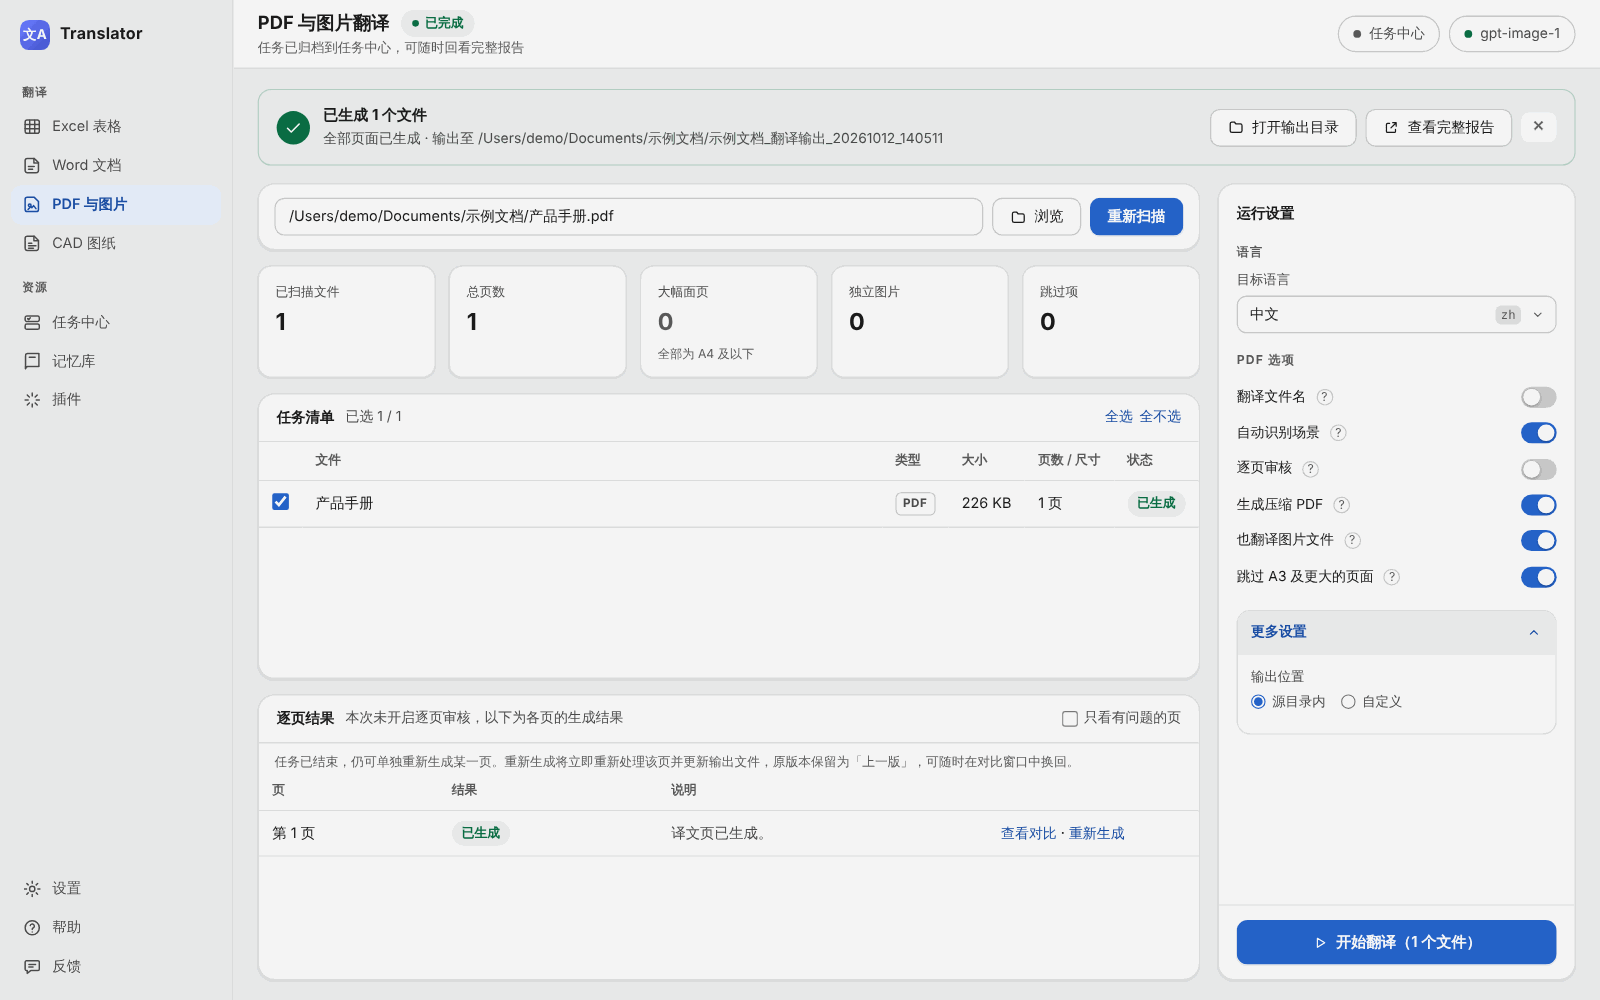
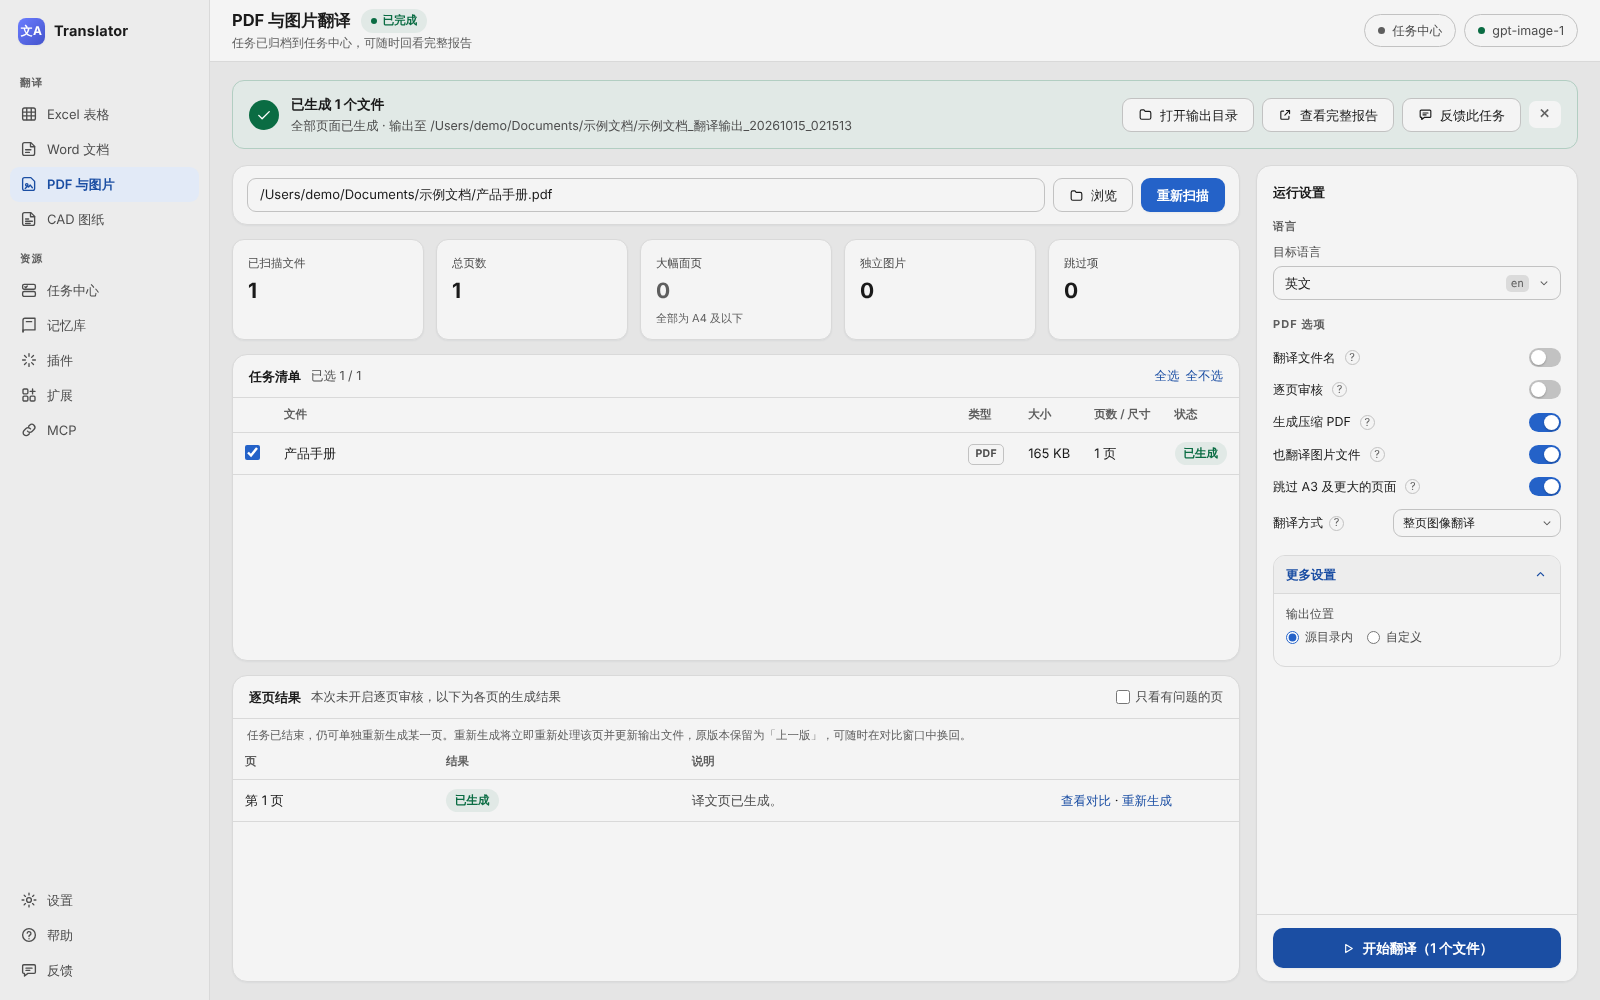
README：配图换成宣传视频用的最新素材（AutoCAD 实拍、Word/Excel/PDF/图片译前译后），补充扩展页和 MCP 页截图，界面截图更新到 V10.2
Claude-Session: https://claude.ai/code/session_01LrFg7QkF3SgrfZ62eC2dx9

diff --git a/README.en.md b/README.en.md
@@ -2,13 +2,13 @@
 
 [简体中文](README.md) | **English**
 
-Translator is a desktop application for macOS and Windows that uses large language models to batch-translate **Excel, Word, PDF, image and CAD (DWG / DXF) files**. Excel and Word files are output in bilingual form by default, with an option to keep the translation only. Translated segments are stored in a translation memory and reused in later jobs to keep terminology consistent.
+Translator is an open-source desktop application for macOS and Windows that uses large language models to batch-translate **Excel, Word, PDF, image and CAD (DWG / DXF) files**. Excel and Word files are output in bilingual form by default, with an option to keep the translation only. Translated segments are stored in a translation memory and reused in later jobs to keep terminology consistent. Other file types can be added through extensions, and AI agents can use Translator as an MCP server.
 
 [Download the latest release](https://github.com/KlaraGraff/XL_Translator/releases/latest)
 
 ![Main window after an Excel translation](docs/images/readme/app-excel.png)
 
-> The application screenshots and the before-and-after comparisons on this page use the same set of engineering documents: the Excel and PDF examples were translated from French into Chinese, and the Word and CAD examples from Chinese into French. File names in the screenshots are neutral sample names; the interface is shown in Chinese with the default Neutral grey color scheme. The interface language can be changed to English or French under Settings → Appearance & language. Output folder names, report files and review markers written into documents remain in Chinese.
+> The application screenshots and translation results on this page use fictional sample documents and contain no real project content. The translations were produced by the application itself, and the CAD drawings are shown as displayed in AutoCAD. The interface is shown in Chinese with the default Neutral grey color scheme. The interface language can be changed to English or French under Settings → Appearance & language. Output folder names, report files and review markers written into documents remain in Chinese.
 
 ## Features
 
@@ -19,10 +19,9 @@ Supports `.xlsx` and legacy `.xls` files. Sheet names, displayed values of formu
 ![Excel translation in progress](docs/images/readme/app-excel-running.png)
 
 <p align="center">
-  <img src="docs/images/readme/result-excel-original.png" width="49%" alt="Original Excel sheet (French)">
-  <img src="docs/images/readme/result-excel-bilingual.png" width="49%" alt="Bilingual Excel output (Chinese below the French source)">
+  <img src="docs/images/readme/result-excel-bilingual.jpg" width="90%" alt="Bilingual Excel output: the French translation below the Chinese source in each cell">
 </p>
-<p align="center"><sub>Left: original (French). Right: bilingual output with the Chinese translation below the source text.</sub></p>
+<p align="center"><sub>Bilingual output: in each cell, the source text above and the translation (French) below.</sub></p>
 
 ### Word
 
@@ -31,10 +30,9 @@ Supports `.docx` and legacy `.doc` files, including body text, tables, headers a
 ![Word translation completed](docs/images/readme/app-word.png)
 
 <p align="center">
-  <img src="docs/images/readme/result-word-original.png" width="49%" alt="Original Word document (Chinese)">
-  <img src="docs/images/readme/result-word-bilingual.png" width="49%" alt="Bilingual Word output (French after each Chinese paragraph)">
+  <img src="docs/images/readme/result-word-bilingual.jpg" width="55%" alt="Bilingual Word output: a French translation after each Chinese paragraph">
 </p>
-<p align="center"><sub>Left: original (Chinese). Right: bilingual output with the French translation after each paragraph.</sub></p>
+<p align="center"><sub>Bilingual output: the French translation follows each paragraph; headings and headers are paired in the same way.</sub></p>
 
 ### PDF and images
 
@@ -43,10 +41,16 @@ Each page is redrawn in the target language by an image model, preserving the or
 ![PDF translation with per-page results](docs/images/readme/app-pdf.png)
 
 <p align="center">
-  <img src="docs/images/readme/result-pdf-original.png" width="49%" alt="Original PDF page (French)">
-  <img src="docs/images/readme/result-pdf-translated.png" width="49%" alt="Translated PDF page (Chinese)">
+  <img src="docs/images/readme/result-pdf-original.jpg" width="49%" alt="Original PDF page (Chinese)">
+  <img src="docs/images/readme/result-pdf-translated.jpg" width="49%" alt="Translated PDF page (French)">
 </p>
-<p align="center"><sub>Left: original page (French). Right: translated page (Chinese).</sub></p>
+<p align="center"><sub>Left: original page (Chinese). Right: translated page (French).</sub></p>
+
+<p align="center">
+  <img src="docs/images/readme/result-image-original.jpg" width="49%" alt="Original image (Chinese)">
+  <img src="docs/images/readme/result-image-translated.jpg" width="49%" alt="Translated image (French)">
+</p>
+<p align="center"><sub>Images are redrawn in the same way: original (Chinese) on the left, translation (French) on the right.</sub></p>
 
 ### CAD drawings
 
@@ -58,20 +62,29 @@ How translations are written back is set under Writing translations on the right
 - Translation font: translations are written in AutoCAD's built-in fonts by default, so they display correctly on other computers; the original font can be kept instead.
 - Auto-shrink long translations: when a translation would overlap neighboring text, it is first narrowed and then reduced in size (to 70% first, down to 40% at most). Anything that still does not fit is listed in the report for review.
 - Do not translate: text in specified blocks and layers, such as title blocks and frames, is left unchanged. Names can be typed in or picked from the drawings.
+- Layout: long translations are shrunk automatically so they do not extend past the drawing frame or out of table cells, or overlap nearby text, door swings and arrows; translations that do not fit in a narrow cell wrap onto two lines; translations in the same column of notes keep the same text height.
 
 ![CAD translation completed, with the write-back options on the right](docs/images/readme/app-cad.png)
 
-![Original drawing (Chinese)](docs/images/readme/result-cad-original.png)
+The images below show a sample drawing as displayed in AutoCAD, with the original and the translation of the same view one above the other.
 
-![Translated drawing (French)](docs/images/readme/result-cad-translated.png)
+![Floor plan, original (Chinese)](docs/images/readme/result-cad-plan-original.jpg)
 
-<p align="center"><sub>Top: original drawing (Chinese). Bottom: translated drawing (French).</sub></p>
+![Floor plan, translated (French, source above translation)](docs/images/readme/result-cad-plan-bilingual.jpg)
+
+<p align="center"><sub>Top: original (Chinese). Bottom: translation (French, source above translation).</sub></p>
+
+![Door and window schedule with notes, original (Chinese)](docs/images/readme/result-cad-table-original.jpg)
+
+![Door and window schedule with notes, translated (French, translation only)](docs/images/readme/result-cad-table-translated.jpg)
+
+<p align="center"><sub>Top: schedule and notes, original (Chinese). Bottom: translation (French, translation only).</sub></p>
 
 ### Translation memory
 
-Translations from Excel and Word jobs are stored automatically and reused first when translating Excel, Word and CAD files. Pinned entries always use the specified translation. The memory supports import, export and cleanup.
+Translations from Excel and Word jobs are stored automatically and reused first when translating Excel, Word and CAD files. Manually maintained entries always use the specified translation. The memory supports import, export and cleanup.
 
-![Translation memory with pinned entries](docs/images/readme/app-library.png)
+![Translation memory, with entries marked as manually maintained or saved automatically](docs/images/readme/app-library.png)
 
 ### Task center
 
@@ -95,7 +108,7 @@ Light and dark modes are available and can follow the system setting. Five color
 
 59 built-in languages, automatic source-language detection and custom target languages are supported.
 
-Each translation page has an Auto-detect switch, on by default. Before translation, the document is read once to identify its type and field, and short standalone words are interpreted accordingly; for example, 甲 in a drawing's door number is not translated as "Party A" as in a contract. With the switch on, each file uses one additional model request.
+Each translation page has an Auto-detect switch, on by default. Before translation, the document is read once to identify its type and field, and short standalone words are interpreted accordingly; for example, 甲 in a drawing's door number is not translated as "Party A" as in a contract. With the switch on, each file uses one additional model request. For longer documents (roughly 3,000 characters or more), the translation of each recurring term is also fixed before translating and used throughout; this applies to Excel, Word and CAD.
 
 Prompts consist of fixed built-in rules and optional extra instructions. The built-in rules are always sent, and extra instructions are only appended after them, never replacing them. Extra instructions are set separately for Excel, Word and CAD under Settings → Translation options, and can be exported and imported.
 
@@ -104,6 +117,8 @@ Prompts consist of fixed built-in rules and optional extra instructions. The bui
 ### Extensions
 
 Besides Excel, Word, PDF and CAD, other file types can be translated through extensions, such as the bundled Text type (.txt, .md), which appears in the sidebar once switched on in the Extensions page. The Extensions page lets you browse and install reviewed extensions from the extension list, or add an extension package someone sent you; extensions are written by third-party authors and run with your user permissions, so only install them from sources you trust. To build your own, start from the [extension template](https://github.com/KlaraGraff/XL_Translator-extension-template) and submit it to the [extension list](https://github.com/KlaraGraff/XL_Translator-extensions) to share it; the steps are in [docs/EXTENSIONS.md](docs/EXTENSIONS.md) (Chinese).
+
+![Extensions page: choose the translation types shown in the sidebar, browse and install extensions](docs/images/readme/app-extensions.png)
 
 ## Model services
 
@@ -183,6 +198,8 @@ Security note: any user with the application installed can decrypt an `.xltcfg` 
 Translator can act as an MCP server for agents such as Claude Desktop, Claude Code and Cursor. An agent can list the supported file types, scan files, start a translation, check its progress and retrieve the paths of the output files. The same program can also be used from a terminal. While Translator is open, tasks appear in the Task center; otherwise the translation engine runs in the background and exits when done. Models, languages and translation options follow the application settings, so a model service must be configured in the application first. Translations are written to a new folder next to the source files, and the source files are never modified.
 
 The simplest way to connect: open the MCP page from the sidebar, click Copy setup instructions, and paste them into a message to the agent, which completes the setup itself. Restart the agent if prompted, and it is ready to use. Manual setup is described below.
+
+![MCP page: copy the setup instructions](docs/images/readme/app-mcp.png)
 
 Location of the translation engine:
 

diff --git a/README.md b/README.md
@@ -2,13 +2,13 @@
 
 **简体中文** | [English](README.en.md)
 
-Translator 是一款基于大语言模型的桌面文档翻译应用，支持批量翻译 **Excel、Word、PDF、图片及 CAD 图纸（DWG / DXF）**，适用于 macOS 与 Windows。Excel 与 Word 默认输出原文与译文对照的双语文件，也可仅保留译文。已翻译的词句存入翻译记忆库，供后续任务复用，以保持术语一致。
+Translator 是一款开源的、基于大语言模型的桌面文档翻译应用，支持批量翻译 **Excel、Word、PDF、图片及 CAD 图纸（DWG / DXF）**，适用于 macOS 与 Windows。Excel 与 Word 默认输出原文与译文对照的双语文件，也可仅保留译文。已翻译的词句存入翻译记忆库，供后续任务复用，以保持术语一致。其他文件类型可通过扩展增加，也可作为 MCP 服务器供智能体调用。
 
 [下载最新版本](https://github.com/KlaraGraff/XL_Translator/releases/latest)
 
 ![Translator 主界面：Excel 翻译完成](docs/images/readme/app-excel.png)
 
-> 本页的界面截图与各功能下的翻译前后对照图对应同一批工程文档：Excel 与 PDF 为法译中，Word 与 CAD 图纸为中译法。截图中的文件名均为中性的示例名称，界面语言为中文，配色为默认的素雅灰。界面语言可在「设置 → 外观与语言」中切换为英语或法语；输出文件夹名称、报告文件及写入文档的复核标记目前仍为中文。
+> 本页的界面截图和翻译结果均使用虚构的示例资料，不含真实项目内容；翻译结果由应用实际翻译生成，CAD 图纸为 AutoCAD 中的实际显示效果。界面语言为中文，配色为默认的素雅灰。界面语言可在「设置 → 外观与语言」中切换为英语或法语；输出文件夹名称、报告文件及写入文档的复核标记目前仍为中文。
 
 ## 功能
 
@@ -19,10 +19,9 @@ Translator 是一款基于大语言模型的桌面文档翻译应用，支持批
 ![Excel 翻译进行中](docs/images/readme/app-excel-running.png)
 
 <p align="center">
-  <img src="docs/images/readme/result-excel-original.png" width="49%" alt="Excel 原文（法语）">
-  <img src="docs/images/readme/result-excel-bilingual.png" width="49%" alt="Excel 双语输出（法语原文下附中文译文）">
+  <img src="docs/images/readme/result-excel-bilingual.jpg" width="90%" alt="Excel 双语输出：每个单元格中文原文下附法语译文">
 </p>
-<p align="center"><sub>左：原文（法语）；右：双语输出，原文在上，中文译文在下</sub></p>
+<p align="center"><sub>双语输出：每个单元格中，原文在上，译文（法语）在下</sub></p>
 
 ### Word
 
@@ -31,10 +30,9 @@ Translator 是一款基于大语言模型的桌面文档翻译应用，支持批
 ![Word 翻译完成](docs/images/readme/app-word.png)
 
 <p align="center">
-  <img src="docs/images/readme/result-word-original.png" width="49%" alt="Word 原文（中文）">
-  <img src="docs/images/readme/result-word-bilingual.png" width="49%" alt="Word 双语输出（每段原文后附法语译文）">
+  <img src="docs/images/readme/result-word-bilingual.jpg" width="55%" alt="Word 双语输出：每段中文原文后附法语译文">
 </p>
-<p align="center"><sub>左：原文（中文）；右：双语输出，每段原文后附法语译文</sub></p>
+<p align="center"><sub>双语输出：每段原文后附法语译文，标题与页眉同样对照</sub></p>
 
 ### PDF 与图片
 
@@ -43,10 +41,16 @@ Translator 是一款基于大语言模型的桌面文档翻译应用，支持批
 ![PDF 翻译完成及逐页结果](docs/images/readme/app-pdf.png)
 
 <p align="center">
-  <img src="docs/images/readme/result-pdf-original.png" width="49%" alt="PDF 原文页面（法语）">
-  <img src="docs/images/readme/result-pdf-translated.png" width="49%" alt="PDF 译文页面（中文）">
+  <img src="docs/images/readme/result-pdf-original.jpg" width="49%" alt="PDF 原文页面（中文）">
+  <img src="docs/images/readme/result-pdf-translated.jpg" width="49%" alt="PDF 译文页面（法语）">
 </p>
-<p align="center"><sub>左：原文页面（法语）；右：译文页面（中文）</sub></p>
+<p align="center"><sub>左：原文页面（中文）；右：译文页面（法语）</sub></p>
+
+<p align="center">
+  <img src="docs/images/readme/result-image-original.jpg" width="49%" alt="图片原图（中文）">
+  <img src="docs/images/readme/result-image-translated.jpg" width="49%" alt="图片译图（法语）">
+</p>
+<p align="center"><sub>图片同样逐张重绘：左为原图（中文），右为译图（法语）</sub></p>
 
 ### CAD 图纸
 
@@ -58,20 +62,29 @@ DXF 文件可直接翻译；DWG 文件需先在「插件」页面配置 ODA File
 - 译文字体：默认使用 AutoCAD 自带字体写入译文，在其他电脑上打开也能正常显示；也可沿用原文字体。
 - 超长译文自动缩小：译文较长、会压到相邻文字时，先收窄字宽，再缩小字号（默认先缩至 70%，最小 40%）；仍放不下的列入报告供复核。
 - 锁定不翻译：指定图框、标题栏等图块和图层，其中的文字保持原样；名称可直接输入，也可从图纸中挑选。
+- 排版：译文较长时自动缩小，不伸出图框和表格格子，也不压到旁边的文字、门的开启线和箭头；窄格子放不下时折成两行；同一列说明的译文字高保持一致。
 
 ![CAD 翻译完成，右侧为译文写回选项](docs/images/readme/app-cad.png)
 
-![CAD 原图（中文）](docs/images/readme/result-cad-original.png)
+下图为在 AutoCAD 中打开示例图纸的实际显示效果，同一视图下的原图与译图上下对照。
 
-![CAD 译图（法语）](docs/images/readme/result-cad-translated.png)
+![CAD 平面图原图（中文）](docs/images/readme/result-cad-plan-original.jpg)
 
-<p align="center"><sub>上：原图（中文）；下：译图（法语）</sub></p>
+![CAD 平面图译图（法语，原文在上，译文在下）](docs/images/readme/result-cad-plan-bilingual.jpg)
+
+<p align="center"><sub>上：原图（中文）；下：译图（法语，原文在上，译文在下）</sub></p>
+
+![CAD 门窗表与说明原图（中文）](docs/images/readme/result-cad-table-original.jpg)
+
+![CAD 门窗表与说明译图（法语，仅译文）](docs/images/readme/result-cad-table-translated.jpg)
+
+<p align="center"><sub>上：门窗表与说明原图（中文）；下：译图（法语，仅译文）</sub></p>
 
 ### 记忆库
 
-Excel 与 Word 的翻译结果自动存入记忆库，在翻译 Excel、Word 和 CAD 图纸时优先复用。已固定的词条始终采用指定译法。记忆库支持导入、导出和清洗。
+Excel 与 Word 的翻译结果自动存入记忆库，在翻译 Excel、Word 和 CAD 图纸时优先复用。手动维护的词条始终采用指定译法。记忆库支持导入、导出和清洗。
 
-![记忆库（带图钉标记的为已固定词条）](docs/images/readme/app-library.png)
+![记忆库（来源分为手动维护和自动保存）](docs/images/readme/app-library.png)
 
 ### 任务中心
 
@@ -95,7 +108,7 @@ Excel 与 Word 的翻译结果自动存入记忆库，在翻译 Excel、Word 和
 
 内置 59 种语言，支持自动识别源语言及自定义目标语言。
 
-各翻译页面提供「自动识别场景」开关，默认开启：翻译前先通读一遍文档，判断文档类型和所属专业，再据此理解单独出现的短词，例如图纸门号中的「甲」不会被译成合同中的「甲方」。开启后每份文件多调用一次模型。
+各翻译页面提供「自动识别场景」开关，默认开启：翻译前先通读一遍文档，判断文档类型和所属专业，再据此理解单独出现的短词，例如图纸门号中的「甲」不会被译成合同中的「甲方」。开启后每份文件多调用一次模型。文档较长（约 3000 字以上）时，翻译前还会先为反复出现的词定好译法，全文统一采用，适用于 Excel、Word 和 CAD。
 
 提示词由固定的内置规则和可选的「补充要求」组成：内置规则每次都会发送，补充要求只追加在其后，不会替换内置规则。补充要求可在「设置 → 翻译参数」中按 Excel、Word、CAD 分别设置，并可导出和导入。
 
@@ -104,6 +117,8 @@ Excel 与 Word 的翻译结果自动存入记忆库，在翻译 Excel、Word 和
 ### 扩展
 
 除 Excel、Word、PDF 和 CAD 外，其他文件类型可以通过扩展翻译，例如随应用提供的「文本」（.txt、.md），在「扩展」页打开后即出现在侧栏。在「扩展」页可以浏览并安装扩展列表里审核过的扩展，也可以添加别人发来的扩展包；扩展由第三方作者编写，以你的用户权限运行，请只安装信任的来源。自己制作扩展可从[扩展模板](https://github.com/KlaraGraff/XL_Translator-extension-template)开始，做好后提交到[扩展列表](https://github.com/KlaraGraff/XL_Translator-extensions)分享给其他人，步骤见 [docs/EXTENSIONS.md](docs/EXTENSIONS.md)。
+
+![扩展页：选择侧栏显示的翻译类型，浏览并安装扩展](docs/images/readme/app-extensions.png)
 
 ## 模型服务
 
@@ -183,6 +198,8 @@ Windows 的数据目录为 `%LOCALAPPDATA%\Translator`。
 Translator 可作为 MCP 服务器，供 Claude Desktop、Claude Code、Cursor 等智能体调用：智能体可查询支持的文件类型、扫描文件、发起翻译、查看进度并取得结果文件的路径。同一程序也可在终端以命令行使用。Translator 打开时，任务显示在任务中心；未打开时，翻译引擎在后台运行，结束后自动退出。模型、语言和翻译参数沿用应用中的设置，使用前需先在应用中完成模型配置。译文写入原文件旁的新文件夹，原文件不会被修改。
 
 最简单的接入方式：打开应用侧栏的「MCP」页面，点击「复制接入说明」，粘贴并发送给智能体，由它完成配置；按提示重新启动智能体后即可使用。以下为手动配置方法。
+
+![MCP 页：复制接入说明](docs/images/readme/app-mcp.png)
 
 翻译引擎的位置：
 
